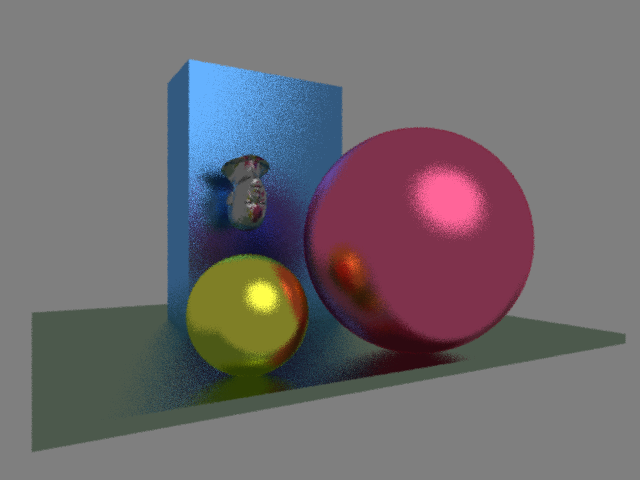
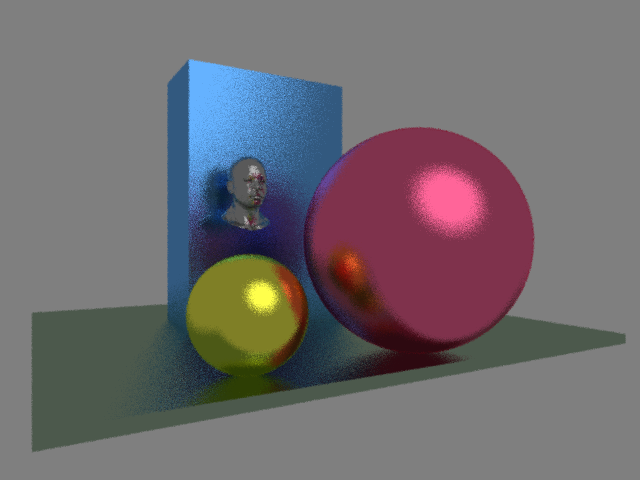
refactor(ray_tracer.c): optimize bounding box calculations with fmin and fmax   feat(ray_tracer.c): implement CentroidTriangle struct and use qsort   to improve efficiency of triangle sorting based on centroids   feat(ray_tracer.c): move parse_obj_file function to the end of the file   to enhance re

diff --git a/ray_tracer.c b/ray_tracer.c
@@ -57,11 +57,8 @@ BVHNode *bvh_root = NULL;
 void compute_triangle_bbox(int tri_index, double bbox_min[3], double bbox_max[3]) {
     int *tri = triangles[tri_index];
     for (int i = 0; i < 3; i++) {
-        bbox_min[i] = bbox_max[i] = vertices[tri[0]][i];
-        if (vertices[tri[1]][i] < bbox_min[i]) bbox_min[i] = vertices[tri[1]][i];
-        if (vertices[tri[2]][i] < bbox_min[i]) bbox_min[i] = vertices[tri[2]][i];
-        if (vertices[tri[1]][i] > bbox_max[i]) bbox_max[i] = vertices[tri[1]][i];
-        if (vertices[tri[2]][i] > bbox_max[i]) bbox_max[i] = vertices[tri[2]][i];
+        bbox_min[i] = fmin(fmin(vertices[tri[0]][i], vertices[tri[1]][i]), vertices[tri[2]][i]);
+        bbox_max[i] = fmax(fmax(vertices[tri[0]][i], vertices[tri[1]][i]), vertices[tri[2]][i]);
     }
 }
 
@@ -77,6 +74,21 @@ void compute_bbox(int start, int end, double bbox_min[3], double bbox_max[3]) {
             if (tri_bbox_max[j] > bbox_max[j]) bbox_max[j] = tri_bbox_max[j];
         }
     }
+}
+
+// Struct for triangle centroid and index
+typedef struct {
+    double centroid;
+    int triangle_index;
+} CentroidTriangle;
+
+// Comparison function for qsort
+int compare_centroids(const void *a, const void *b) {
+    double c1 = ((CentroidTriangle*)a)->centroid;
+    double c2 = ((CentroidTriangle*)b)->centroid;
+    if (c1 < c2) return -1;
+    else if (c1 > c2) return 1;
+    else return 0;
 }
 
 // Function to build BVH recursively
@@ -101,40 +113,38 @@ BVHNode* build_bvh(int start, int end) {
         if (extent[1] > extent[0]) axis = 1;
         if (extent[2] > extent[axis]) axis = 2;
 
-        // Sort triangles based on centroid along axis
-        int mid = (start + end) / 2;
+        int num_tris = end - start;
+        CentroidTriangle *centroids = (CentroidTriangle*)malloc(num_tris * sizeof(CentroidTriangle));
+
         // Compute centroids
-        double *centroids = (double*)malloc((end - start) * sizeof(double));
-        for (int i = start; i < end; i++) {
-            int *tri = triangles[i];
-            double centroid = (vertices[tri[0]][axis] + vertices[tri[1]][axis] + vertices[tri[2]][axis]) / 3.0;
-            centroids[i - start] = centroid;
+        for (int i = 0; i < num_tris; i++) {
+            int tri_idx = start + i;
+            int *tri = triangles[tri_idx];
+            centroids[i].centroid = (vertices[tri[0]][axis] + vertices[tri[1]][axis] + vertices[tri[2]][axis]) / 3.0;
+            centroids[i].triangle_index = tri_idx;
         }
 
-        // Partition triangles
-        for (int i = start; i < end - 1; i++) {
-            for (int j = i + 1; j < end; j++) {
-                if (centroids[i - start] > centroids[j - start]) {
-                    // Swap centroids
-                    double temp_centroid = centroids[i - start];
-                    centroids[i - start] = centroids[j - start];
-                    centroids[j - start] = temp_centroid;
-                    // Swap triangles
-                    int temp_tri[3];
-                    temp_tri[0] = triangles[i][0];
-                    temp_tri[1] = triangles[i][1];
-                    temp_tri[2] = triangles[i][2];
-                    triangles[i][0] = triangles[j][0];
-                    triangles[i][1] = triangles[j][1];
-                    triangles[i][2] = triangles[j][2];
-                    triangles[j][0] = temp_tri[0];
-                    triangles[j][1] = temp_tri[1];
-                    triangles[j][2] = temp_tri[2];
-                }
-            }
+        // Sort triangles based on centroid along axis
+        qsort(centroids, num_tris, sizeof(CentroidTriangle), compare_centroids);
+
+        // Rearrange triangles according to sorted order
+        int (*temp_triangles)[3] = malloc(num_tris * sizeof(int[3]));
+        for (int i = 0; i < num_tris; i++) {
+            int idx = centroids[i].triangle_index;
+            temp_triangles[i][0] = triangles[idx][0];
+            temp_triangles[i][1] = triangles[idx][1];
+            temp_triangles[i][2] = triangles[idx][2];
         }
+        for (int i = 0; i < num_tris; i++) {
+            triangles[start + i][0] = temp_triangles[i][0];
+            triangles[start + i][1] = temp_triangles[i][1];
+            triangles[start + i][2] = temp_triangles[i][2];
+        }
+
+        free(temp_triangles);
         free(centroids);
 
+        int mid = (start + end) / 2;
         // Recursively build child nodes
         node->left = build_bvh(start, mid);
         node->right = build_bvh(mid, end);
@@ -193,58 +203,6 @@ int bvh_intersect(BVHNode *node, const double ro[3], const double rd[3],
     return hit;
 }
 
-// Function to parse OBJ file
-void parse_obj_file(const char *filename) {
-    FILE *file = fopen(filename, "r");
-    if (!file) {
-        fprintf(stderr, "Failed to open OBJ file %s\n", filename);
-        exit(1);
-    }
-
-    char line[256];
-    while (fgets(line, sizeof(line), file)) {
-        if (line[0] == 'v' && line[1] == ' ') {
-            // Vertex position
-            double x, y, z;
-            sscanf(line + 2, "%lf %lf %lf", &x, &y, &z);
-            if (num_vertices >= MAX_VERTICES) {
-                fprintf(stderr, "Exceeded maximum number of vertices\n");
-                exit(1);
-            }
-            vertices[num_vertices][0] = x;
-            vertices[num_vertices][1] = y;
-            vertices[num_vertices][2] = z;
-            num_vertices++;
-        } else if (line[0] == 'f' && line[1] == ' ') {
-            // Face
-            int vi[3];
-            int matches = sscanf(line + 2, "%d %d %d", &vi[0], &vi[1], &vi[2]);
-            if (matches != 3) {
-                // Try to parse format with slashes
-                matches = sscanf(line + 2, "%d/%*d/%*d %d/%*d/%*d %d/%*d/%*d", &vi[0], &vi[1], &vi[2]);
-                if (matches != 3) {
-                    matches = sscanf(line + 2, "%d//%*d %d//%*d %d//%*d", &vi[0], &vi[1], &vi[2]);
-                    if (matches != 3) {
-                        fprintf(stderr, "Failed to parse face: %s", line);
-                        continue;
-                    }
-                }
-            }
-            if (num_triangles >= MAX_TRIANGLES) {
-                fprintf(stderr, "Exceeded maximum number of triangles\n");
-                exit(1);
-            }
-            // OBJ indices start from 1
-            triangles[num_triangles][0] = vi[0] - 1;
-            triangles[num_triangles][1] = vi[1] - 1;
-            triangles[num_triangles][2] = vi[2] - 1;
-            num_triangles++;
-        }
-    }
-
-    fclose(file);
-}
-
 // Triangle intersection using Möller–Trumbore algorithm
 int triangle_intersect(const double v0[3], const double v1[3], const double v2[3],
                        const double ro[3], const double rd[3],
@@ -256,7 +214,7 @@ int triangle_intersect(const double v0[3], const double v1[3], const double v2[3
     VEC_SUB(v2, v0, edge2);
     VEC_CROSS(rd, edge2, h);
     a = VEC_DOT(edge1, h);
-    if (a > -EPSILON && a < EPSILON)
+    if (fabs(a) < EPSILON)
         return 0;    // Ray is parallel to triangle
     f = 1.0 / a;
     VEC_SUB(ro, v0, s);
@@ -329,6 +287,58 @@ void rotate_y(double angle, double point[3]) {
     double z = point[2];
     point[0] = c * x + s * z;
     point[2] = -s * x + c * z;
+}
+
+// Function to parse OBJ file
+void parse_obj_file(const char *filename) {
+    FILE *file = fopen(filename, "r");
+    if (!file) {
+        fprintf(stderr, "Failed to open OBJ file %s\n", filename);
+        exit(1);
+    }
+
+    char line[256];
+    while (fgets(line, sizeof(line), file)) {
+        if (line[0] == 'v' && line[1] == ' ') {
+            // Vertex position
+            double x, y, z;
+            sscanf(line + 2, "%lf %lf %lf", &x, &y, &z);
+            if (num_vertices >= MAX_VERTICES) {
+                fprintf(stderr, "Exceeded maximum number of vertices\n");
+                exit(1);
+            }
+            vertices[num_vertices][0] = x;
+            vertices[num_vertices][1] = y;
+            vertices[num_vertices][2] = z;
+            num_vertices++;
+        } else if (line[0] == 'f' && line[1] == ' ') {
+            // Face
+            int vi[3];
+            int matches = sscanf(line + 2, "%d %d %d", &vi[0], &vi[1], &vi[2]);
+            if (matches != 3) {
+                // Try to parse format with slashes
+                matches = sscanf(line + 2, "%d/%*d/%*d %d/%*d/%*d %d/%*d/%*d", &vi[0], &vi[1], &vi[2]);
+                if (matches != 3) {
+                    matches = sscanf(line + 2, "%d//%*d %d//%*d %d//%*d", &vi[0], &vi[1], &vi[2]);
+                    if (matches != 3) {
+                        fprintf(stderr, "Failed to parse face: %s", line);
+                        continue;
+                    }
+                }
+            }
+            if (num_triangles >= MAX_TRIANGLES) {
+                fprintf(stderr, "Exceeded maximum number of triangles\n");
+                exit(1);
+            }
+            // OBJ indices start from 1
+            triangles[num_triangles][0] = vi[0] - 1;
+            triangles[num_triangles][1] = vi[1] - 1;
+            triangles[num_triangles][2] = vi[2] - 1;
+            num_triangles++;
+        }
+    }
+
+    fclose(file);
 }
 
 // Trace function
@@ -438,16 +448,16 @@ int main() {
     // Apply transformations to the mesh vertices
     double scale_factor = 0.8;
     double translation[3] = {4.0, -1.0, 10.0}; // Adjusted translation
-    double rotation_y = M_PI;      // Rotate 180 degrees around Y-axis
+    double rotation_y_angle = M_PI;      // Rotate 180 degrees around Y-axis
 
     for (int i = 0; i < num_vertices; i++) {
         // Scale
         vertices[i][0] *= scale_factor;
-        vertices[i][1] *= scale_factor;
+        vertices[i][1] *= -scale_factor; // Flip Y-axis to correct orientation
         vertices[i][2] *= scale_factor;
 
         // Rotate around Y-axis
-        rotate_y(rotation_y, vertices[i]);
+        rotate_y(rotation_y_angle, vertices[i]);
 
         // Translate
         vertices[i][0] += translation[0];
